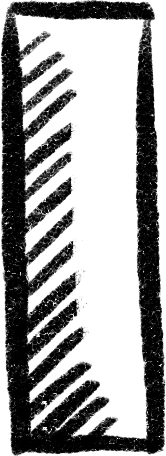
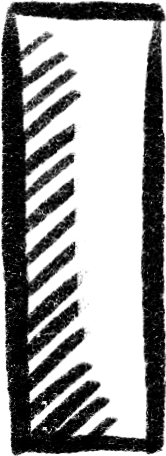
Update assets to not have transparency on the body Add input processing Add paddles size calculation

diff --git a/src/Game.cpp b/src/Game.cpp
@@ -4,7 +4,9 @@
 
 Game::Game()
     : m_window("Pong", sf::Vector2u(WINDOW_WIDTH, WINDOW_HEIGHT)),
-      m_ballVelocity({400.f, 400.f}) {
+      m_ballVelocity({400.f, 400.f}),
+      m_paddleLeftMoveDirection(0.f),
+      m_paddleRightMoveDirection(0.f) {
   if (!m_ballTexture.loadFromFile("../assets/ball.png") ||
       !m_paddleLeftTexture.loadFromFile("../assets/paddle_left.png") ||
       !m_paddleRightTexture.loadFromFile("../assets/paddle_right.png") ||
@@ -13,46 +15,66 @@ Game::Game()
   }
 
   m_ballTexture.setSmooth(true);
+  m_paddleLeftTexture.setSmooth(true);
+  m_paddleRightTexture.setSmooth(true);
+  m_dividerTexture.setSmooth(true);
 
-  auto textureSize = m_ballTexture.getSize();
   m_ballSprite.setTexture(m_ballTexture);
-  m_ballSprite.setOrigin(static_cast<float>(textureSize.x) / 2.f,
-                         static_cast<float>(textureSize.y) / 2.f);
-
+  m_ballSprite.setOrigin(getSpriteOrigin(m_ballTexture));
   m_ballSprite.setScale(0.25f, 0.25f);
   m_ballSprite.setPosition(100.f, 100.f);
 
+  auto paddleHeight = WINDOW_HEIGHT / 7.f;
+
   m_paddleLeftSprite.setTexture(m_paddleLeftTexture);
-  m_paddleLeftSprite.setScale(0.25f, 0.25f);
-  m_paddleLeftSprite.setPosition(10.f, 200.f);
+  m_paddleLeftSprite.setOrigin(getSpriteOrigin(m_paddleLeftTexture));
+  auto leftPaddScaleFactor = paddleHeight / static_cast<float>(m_paddleLeftTexture.getSize().y);
+  m_paddleLeftSprite.setScale(leftPaddScaleFactor, leftPaddScaleFactor);
+  m_paddleLeftSprite.setPosition(getSpriteSize(m_paddleLeftSprite).x / 2.f + 10.f, WINDOW_HEIGHT / 2.f);
 
   m_paddleRightSprite.setTexture(m_paddleRightTexture);
-  m_paddleRightSprite.setScale(0.25f, 0.25f);
-  m_paddleRightSprite.setPosition(WINDOW_WIDTH - 50.f, 500.f);
+  m_paddleRightSprite.setOrigin(getSpriteOrigin(m_paddleRightTexture));
+  auto rightPaddleScaleFactor = paddleHeight / static_cast<float>(m_paddleRightTexture.getSize().y);
+  m_paddleRightSprite.setScale(rightPaddleScaleFactor, rightPaddleScaleFactor);
+  m_paddleRightSprite.setPosition(WINDOW_WIDTH - getSpriteSize(m_paddleRightSprite).x / 2.f - 10.f, WINDOW_HEIGHT / 2.f);
 
   m_dividerSprite.setTexture(m_dividerTexture);
-  m_dividerSprite.setOrigin(static_cast<float>(m_dividerTexture.getSize().x) / 2.f,
-                            static_cast<float>(m_dividerTexture.getSize().y) / 2.f);
+  m_dividerSprite.setOrigin(getSpriteOrigin(m_dividerTexture));
   auto dividerRatio = WINDOW_HEIGHT / static_cast<float>(m_dividerTexture.getSize().y);
   m_dividerSprite.setScale(dividerRatio, dividerRatio);
   m_dividerSprite.setPosition(WINDOW_WIDTH / 2.f, WINDOW_HEIGHT / 2.f);
 }
 
-Game::~Game() = default;
-
 void Game::update() {
   m_window.update();
 
   if (m_elapsed.asSeconds() >= FRAME_TIME) {
+    movePaddle(m_paddleLeftSprite, m_paddleLeftMoveDirection);
+    movePaddle(m_paddleRightSprite, m_paddleRightMoveDirection);
     moveBall();
 
     m_elapsed -= sf::seconds(FRAME_TIME);
   }
 }
 
+void Game::movePaddle(sf::Sprite &paddle, float direction) {
+  paddle.move(0.f, direction * PADDLE_VELOCITY);
+
+  const auto paddleHeight = getSpriteSize(paddle).y;
+  const auto paddlePosition = paddle.getPosition();
+
+  if ((paddlePosition.y - paddleHeight / 2.f) <= 0.f) {
+    paddle.setPosition(paddlePosition.x, paddleHeight / 2.f);
+  }
+
+  if ((paddlePosition.y + paddleHeight / 2.f) >= WINDOW_HEIGHT) {
+    paddle.setPosition(paddlePosition.x, WINDOW_HEIGHT - paddleHeight / 2.f);
+  }
+}
+
 void Game::moveBall() {
-  auto ballSize = getBallSpriteSize();
-  auto ballPosition = m_ballSprite.getPosition();
+  const auto ballSize = getSpriteSize(m_ballSprite);
+  const auto ballPosition = m_ballSprite.getPosition();
 
   if (ballPosition.x > (WINDOW_WIDTH - ballSize.x / 2.f) ||
       ballPosition.x < ballSize.x / 2.f) {
@@ -83,18 +105,42 @@ void Game::restartClock() {
 }
 
 void Game::handleInput() {
-  // TODO: add input processing here
+  if (sf::Keyboard::isKeyPressed(sf::Keyboard::W)) {
+    m_paddleLeftMoveDirection = -1.f;
+  } else if (sf::Keyboard::isKeyPressed(sf::Keyboard::S)) {
+    m_paddleLeftMoveDirection = 1.f;
+  } else {
+    m_paddleLeftMoveDirection = 0.f;
+  }
+
+  if (sf::Keyboard::isKeyPressed(sf::Keyboard::O)) {
+    m_paddleRightMoveDirection = -1.f;
+  } else if (sf::Keyboard::isKeyPressed(sf::Keyboard::L)) {
+    m_paddleRightMoveDirection = 1.f;
+  } else {
+    m_paddleRightMoveDirection = 0.f;
+  }
 }
 
 bool Game::isDone() const {
   return m_window.isDone();
 }
 
-sf::Vector2f Game::getBallSpriteSize() {
-  auto size = m_ballSprite.getTexture()->getSize();
-  auto width = static_cast<float>(size.x);
-  auto height = static_cast<float>(size.y);
+sf::Vector2f Game::getSpriteSize(const sf::Sprite &sprite) {
+  const auto size = sprite.getTexture()->getSize();
+  const auto width = static_cast<float>(size.x);
+  const auto height = static_cast<float>(size.y);
 
-  return {width * m_ballSprite.getScale().x,
-          height * m_ballSprite.getScale().y};
+  return {width * sprite.getScale().x,
+          height * sprite.getScale().y};
+}
+
+/// Resolves new origin of the sprite, should be called before applying transformations
+/// @param texture sprite texture to find it's size before transformations
+/// @return origin posisition which is the center of the texture
+sf::Vector2f Game::getSpriteOrigin(const sf::Texture &texture) {
+  const auto textureSize = texture.getSize();
+
+  return {static_cast<float>(textureSize.x) / 2.f,
+          static_cast<float>(textureSize.y) / 2.f};
 }

diff --git a/src/Game.h b/src/Game.h
@@ -8,7 +8,7 @@
 class Game {
 public:
   Game();
-  ~Game();
+  ~Game() = default;
 
   void handleInput();
   void update();
@@ -18,19 +18,24 @@ public:
 
 private:
   void moveBall();
+  static void movePaddle(sf::Sprite &paddle, float direction);
 
   Window m_window;
 
   sf::Texture m_ballTexture;
   sf::Sprite m_ballSprite;
   sf::Vector2f m_ballVelocity;
-  sf::Vector2f getBallSpriteSize();
+
+  static sf::Vector2f getSpriteSize(const sf::Sprite &sprite);
+  static sf::Vector2f getSpriteOrigin(const sf::Texture &texture);
 
   sf::Texture m_paddleLeftTexture;
   sf::Sprite m_paddleLeftSprite;
+  float m_paddleLeftMoveDirection;
 
   sf::Texture m_paddleRightTexture;
   sf::Sprite m_paddleRightSprite;
+  float m_paddleRightMoveDirection;
 
   sf::Texture m_dividerTexture;
   sf::Sprite m_dividerSprite;
@@ -41,4 +46,5 @@ private:
   static constexpr float FRAME_TIME{1.0f / 60.f};
   static constexpr float WINDOW_WIDTH{1024.f};
   static constexpr float WINDOW_HEIGHT{768.f};
+  static constexpr float PADDLE_VELOCITY{15.f};
 };

diff --git a/src/Window.cpp b/src/Window.cpp
@@ -40,8 +40,8 @@ void Window::update() {
 }
 
 void Window::beginDraw() {
-//  m_window.clear(sf::Color::White);
-  m_window.clear(sf::Color(0x444444ff)); // TODO: remove before merge
+  m_window.clear(sf::Color::White);
+  // m_window.clear(sf::Color(0x444444ff)); // TODO: remove before merge
 }
 
 void Window::endDraw() {
